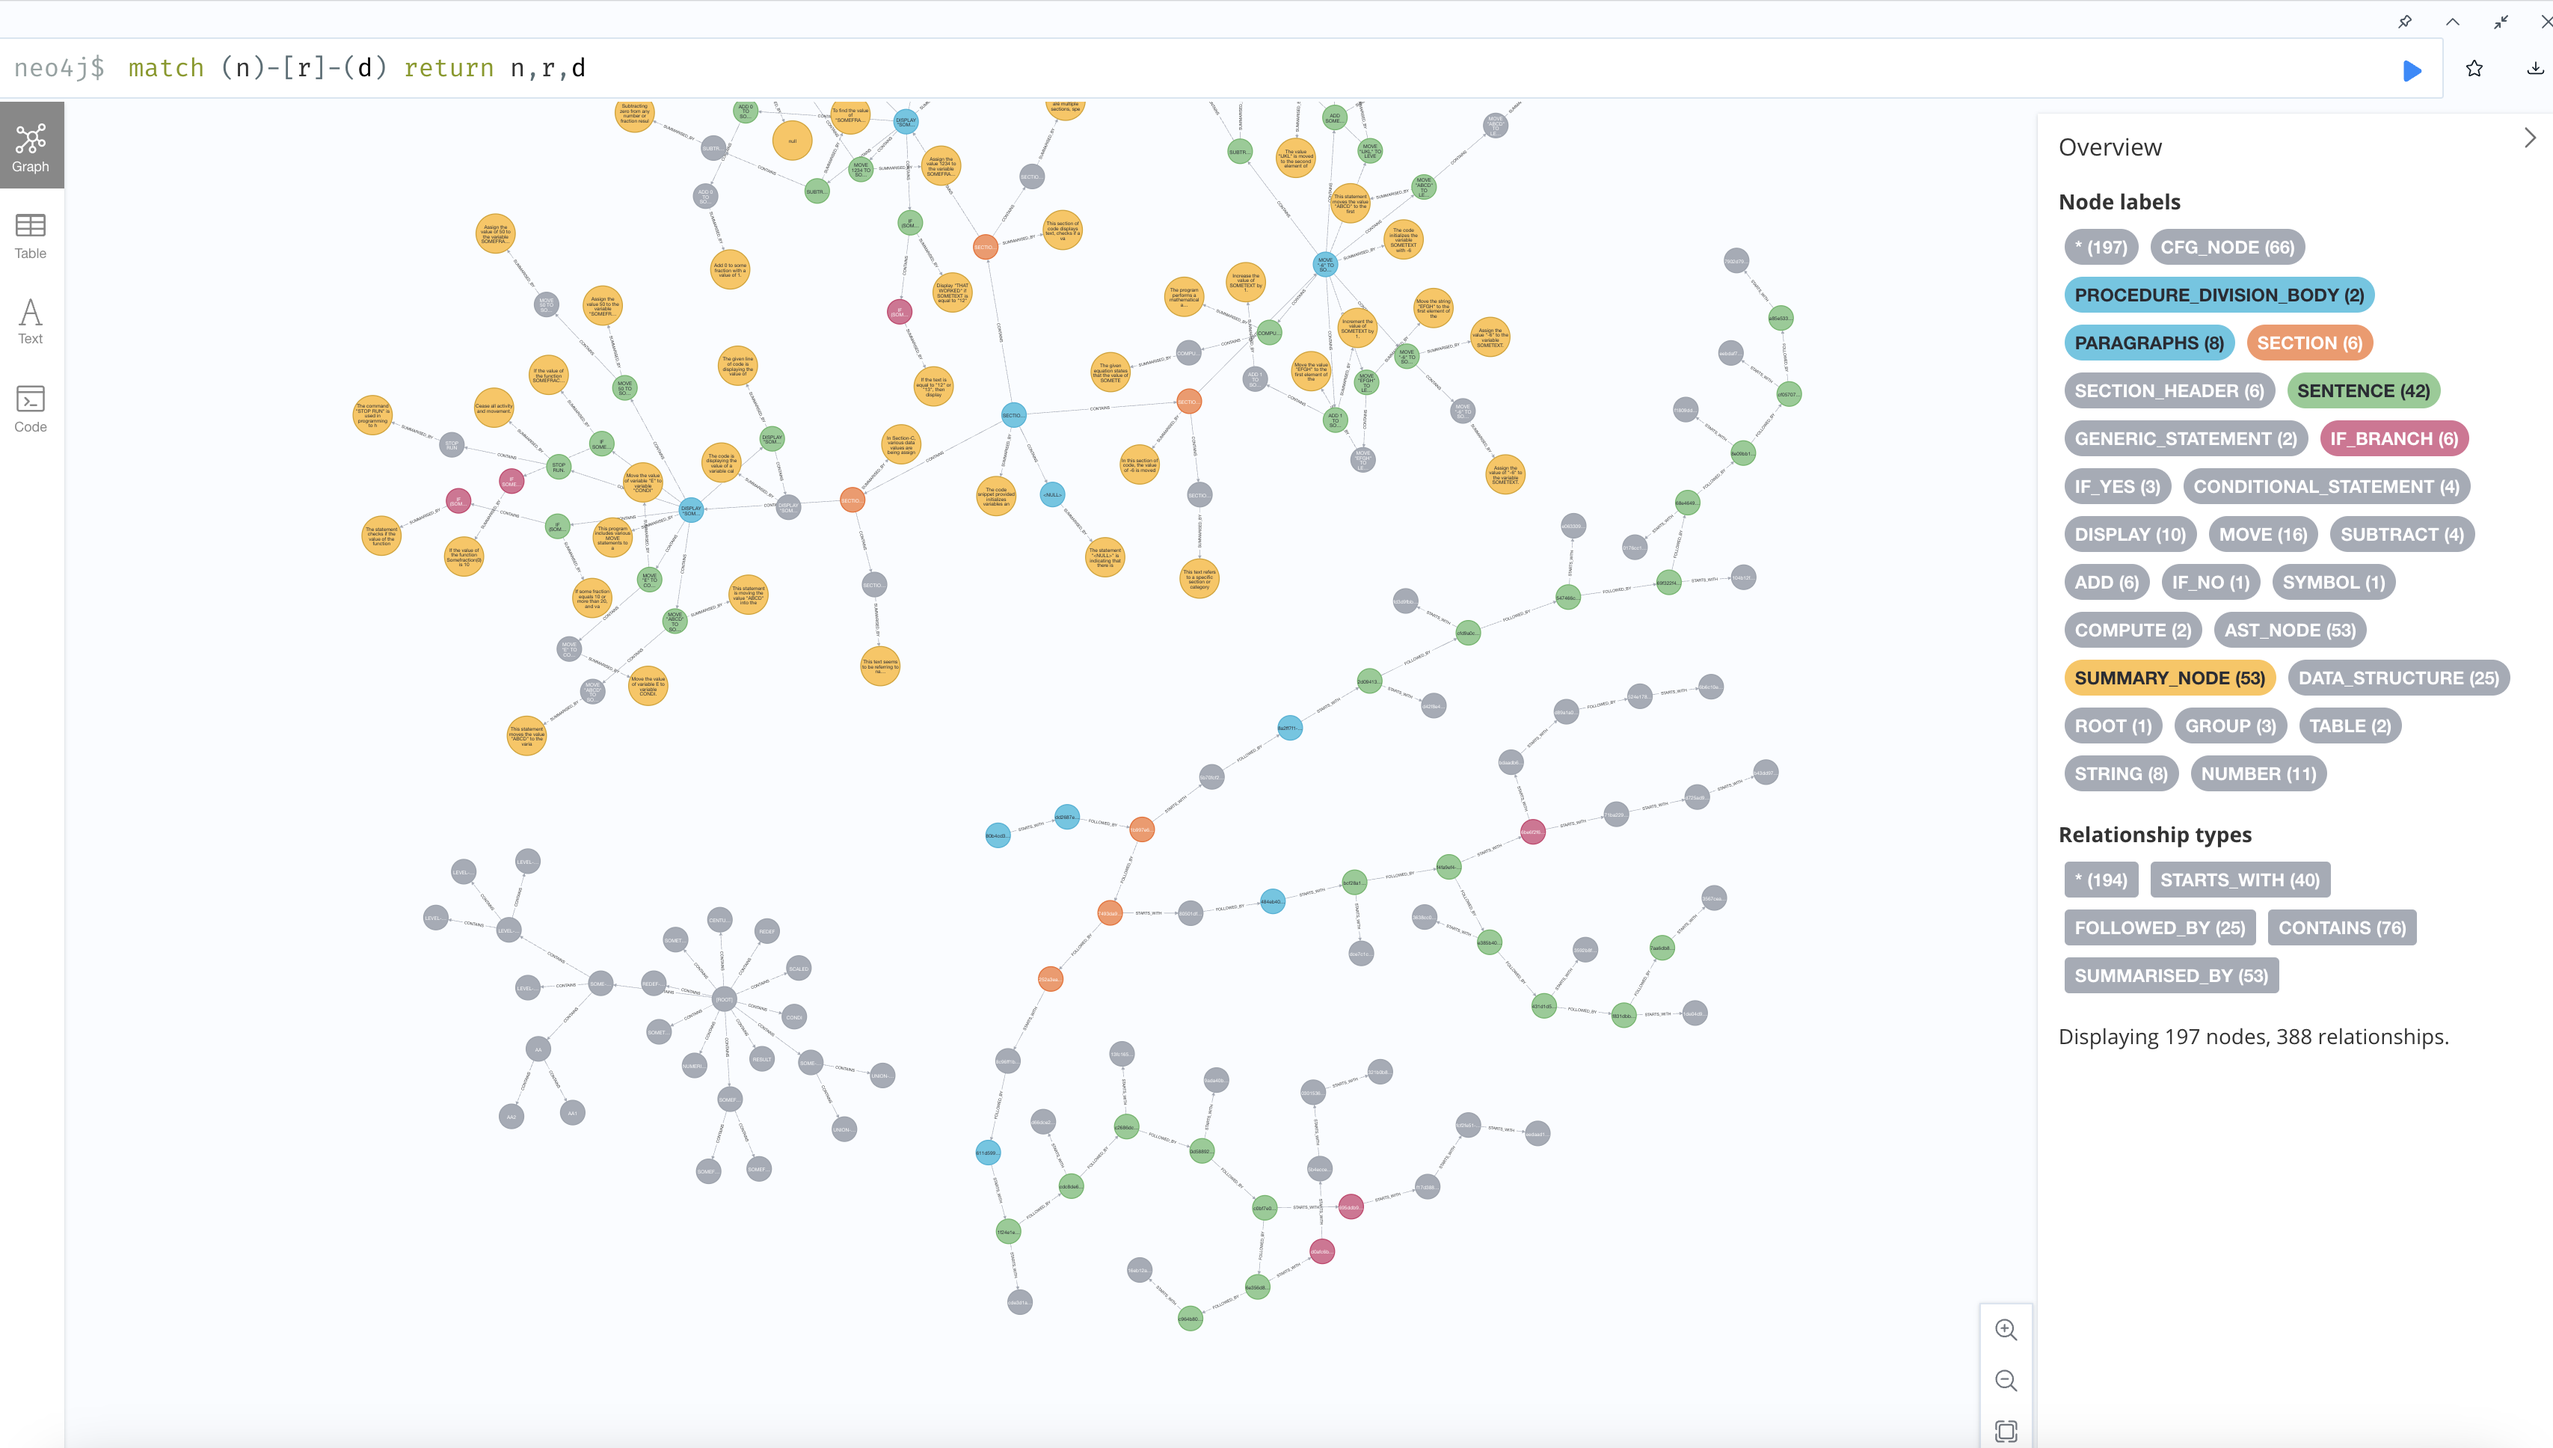
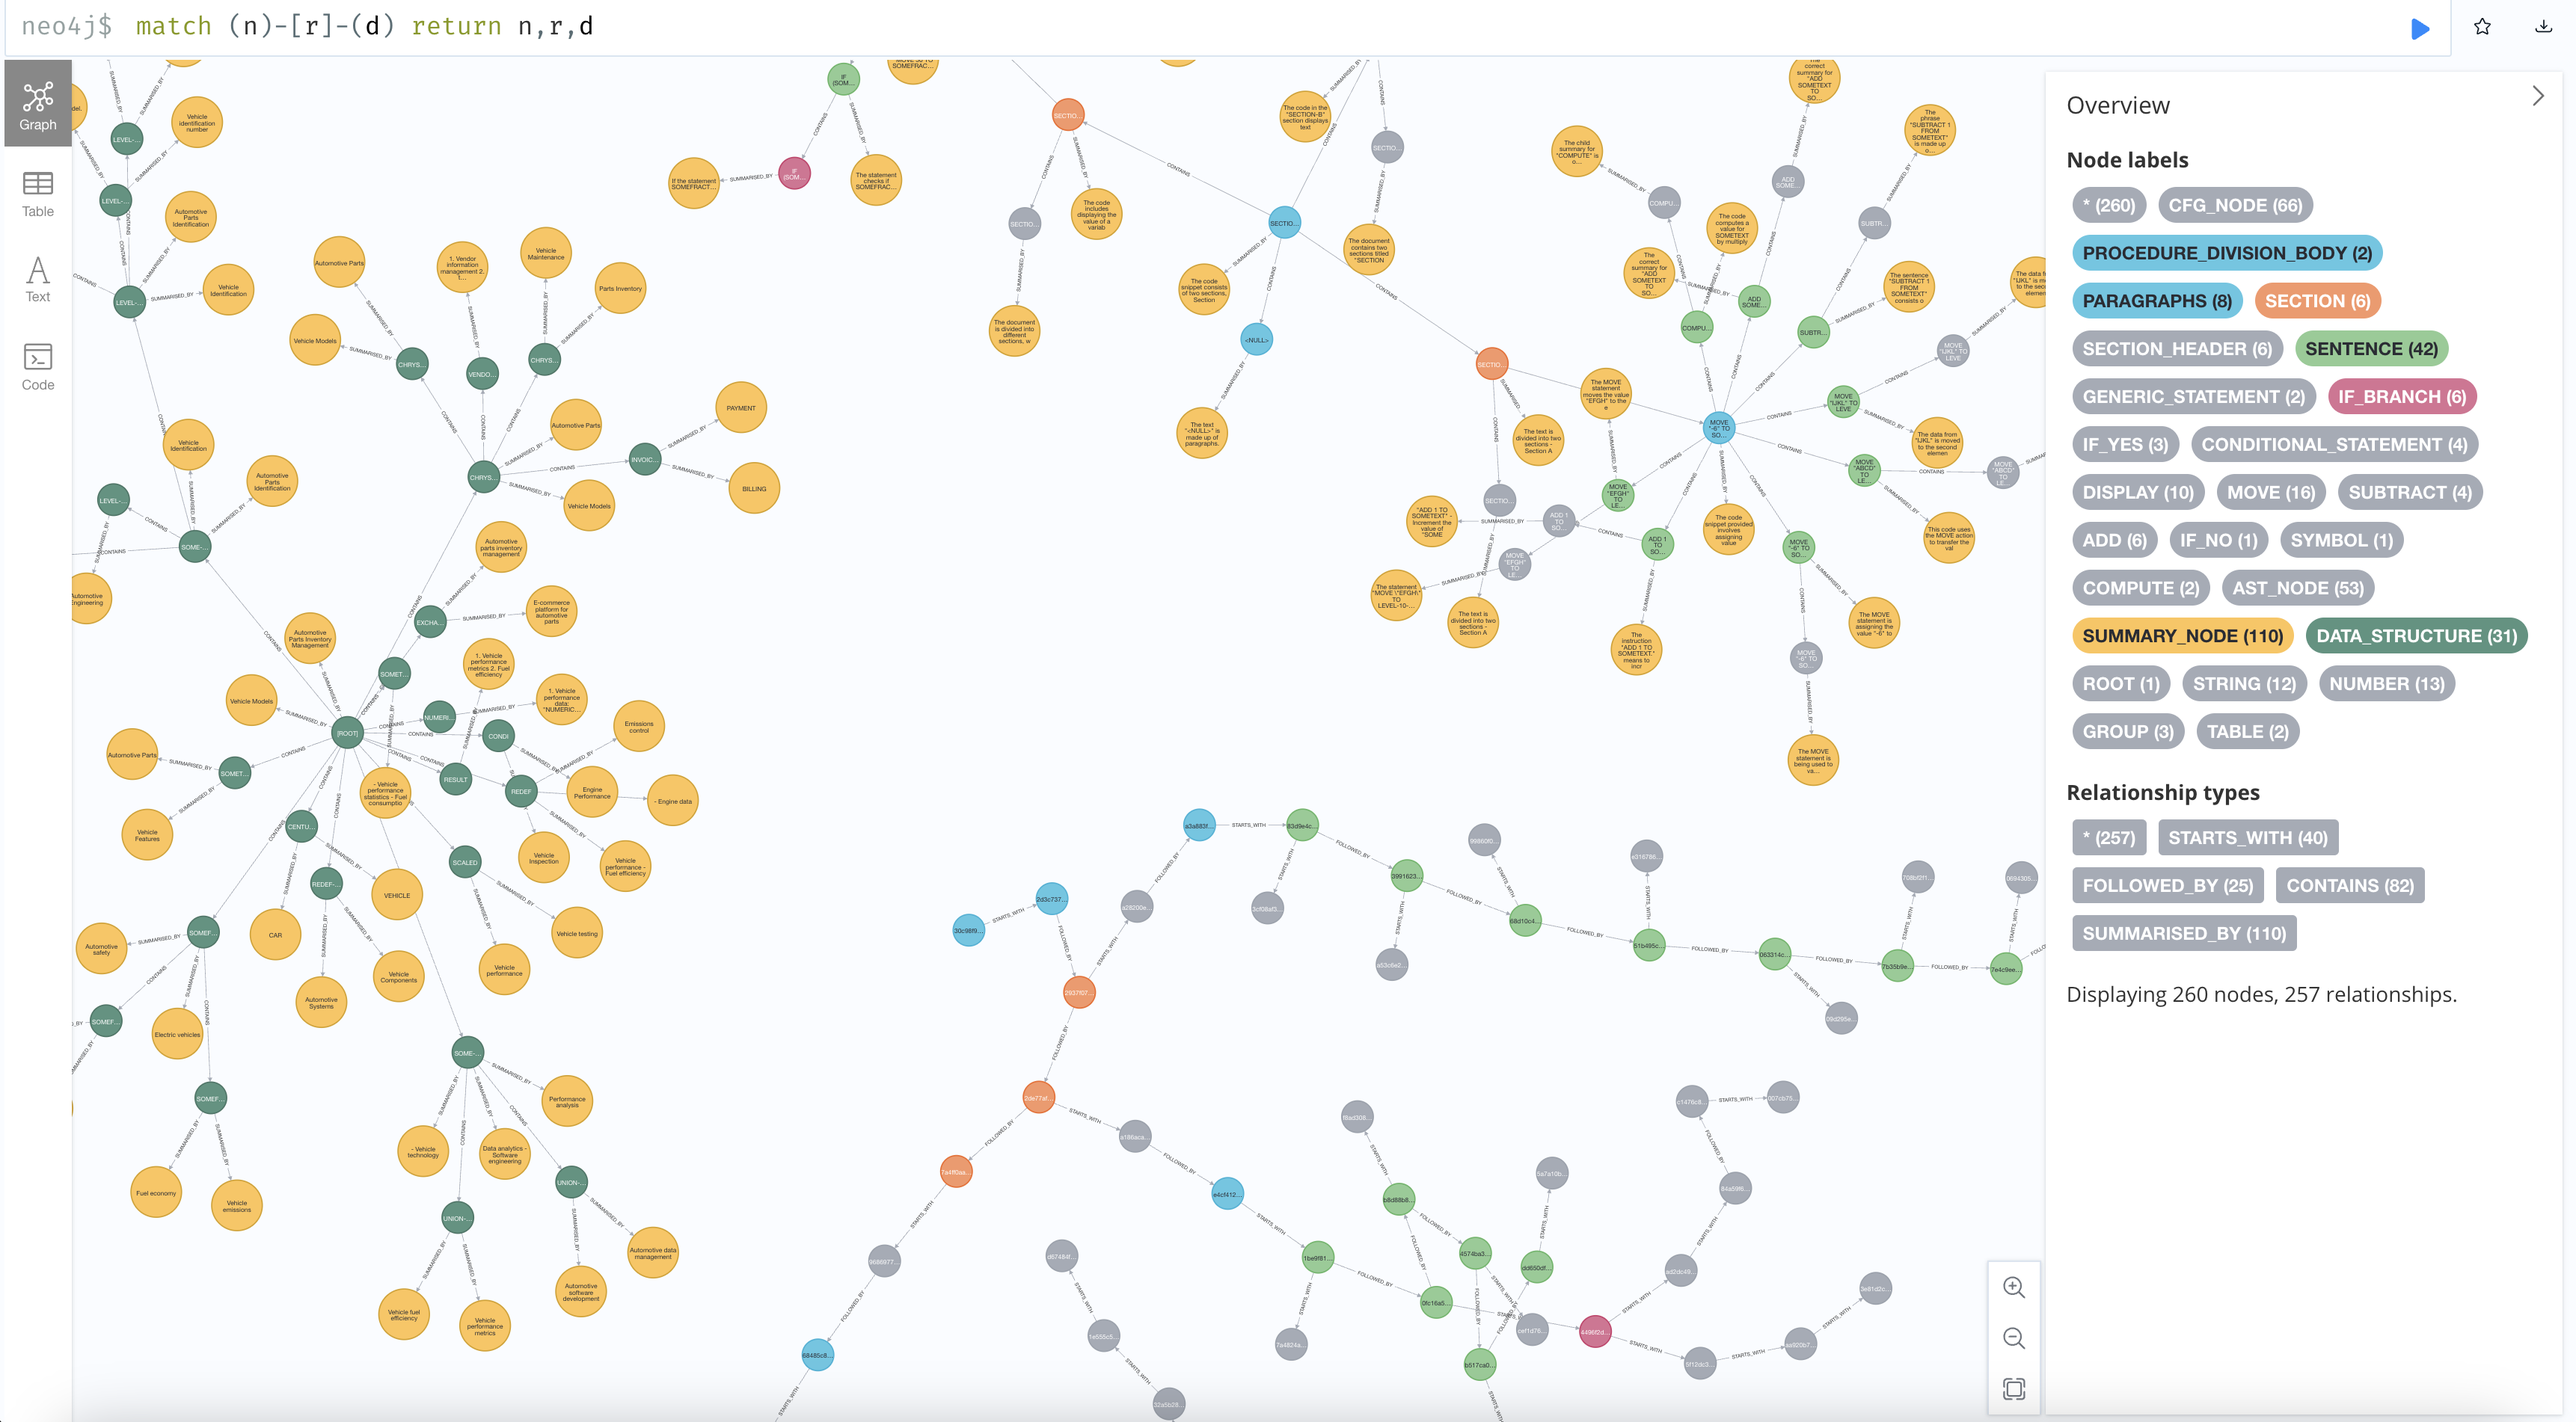
Cleaning up root pom.xml and updating README

diff --git a/README.md b/README.md
@@ -57,7 +57,7 @@ The Control Flow Graph is in the SMOJOL AST format.
 
 The OpenAI integration can be leveraged to summarise nodes in a bottom-up fashion (i.e., summarise leaf nodes first, then use those summaries to generate summarise the parent nodes, and so on).
 
-The following diagram shows the AST, the Control Flow Graph, and the data structures graph. The yellow nodes are the summary nodes (generated through an LLM) attached to the AST.
+The following diagram shows the AST, the Control Flow Graph, and the data structures graph. The yellow nodes are the summary nodes (generated through an LLM) attached to the AST (to provide explanations) and the data structures (to infer domains).
 
 ![ast-cfg-structs-graph](documentation/ast-and-cfg-structs-graph.png)
 
